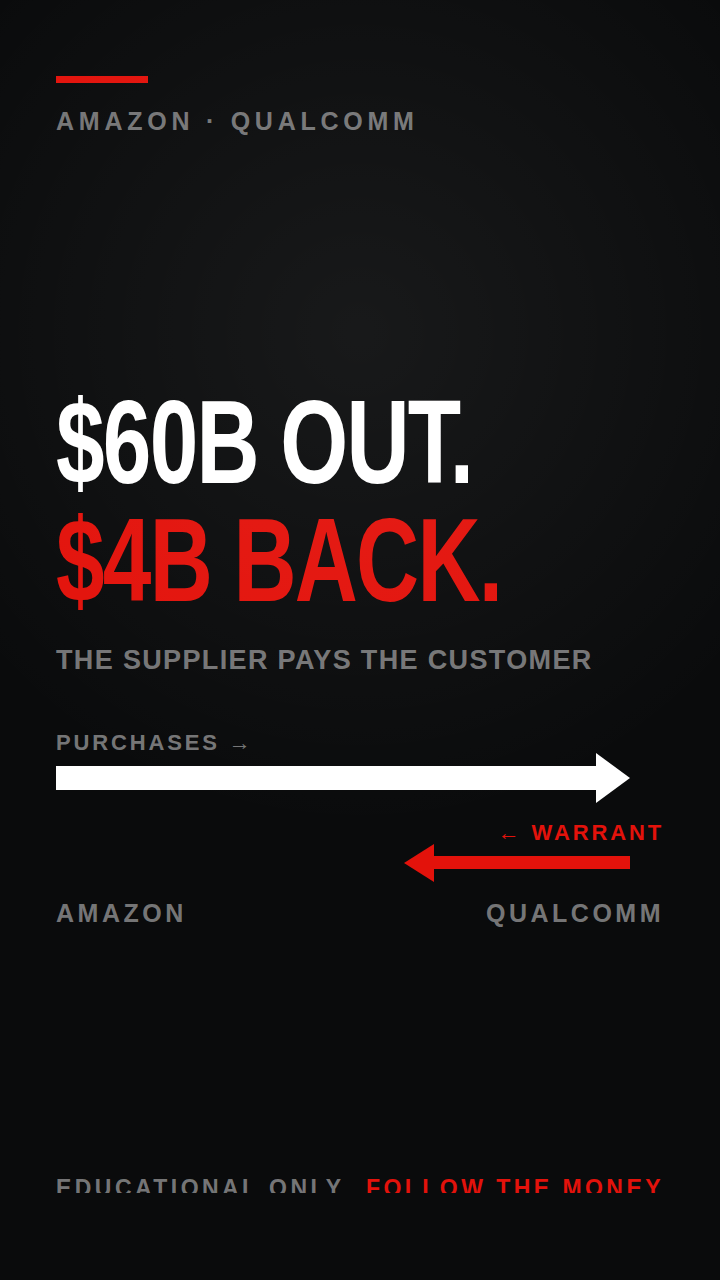
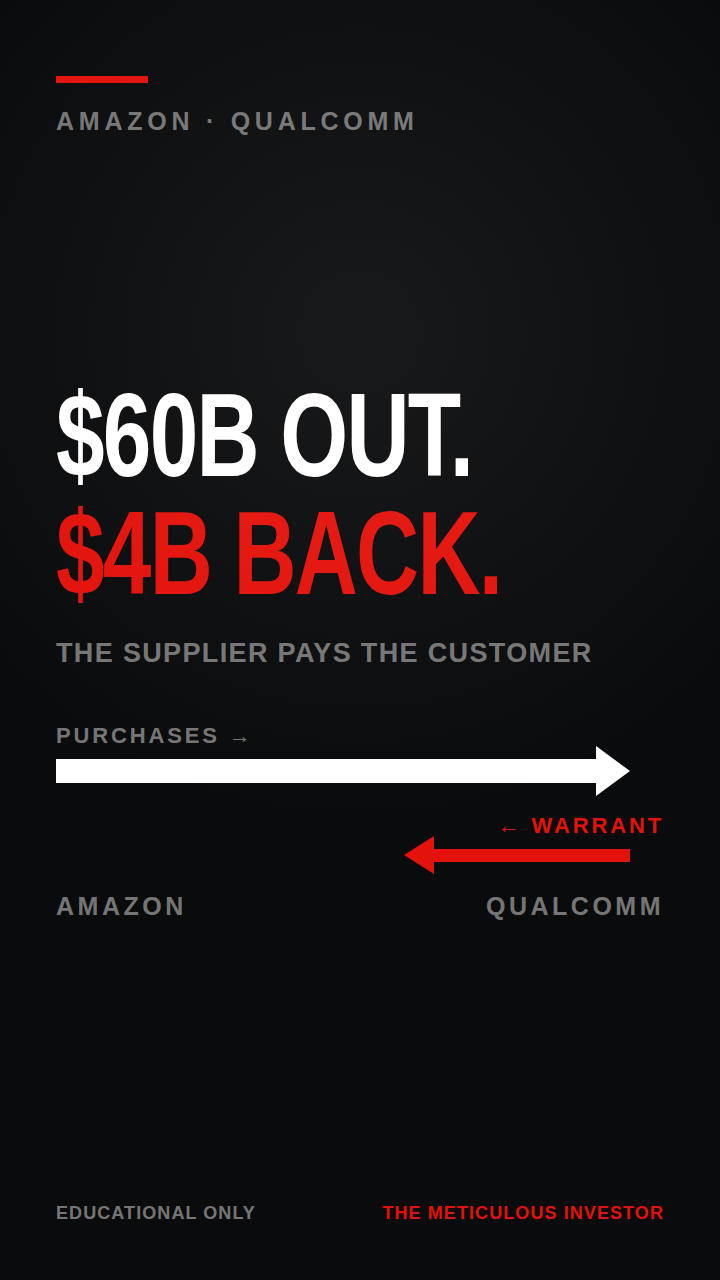
Add "Lose 50%. Need 100%." short and fix a silent thumbnail render bug
Evergreen recovery-math explainer: $100 to $50 and back, the 1/(1-L)-1
formula, the recovery table, and what it looked like in 2008 and after the
dot-com crash.

Voice and channel were both confirmed rather than assumed. The requested
"Wall Street guru" persona collides with STYLE-GUIDE.md section 4, and the
answer was to keep the newsroom register - so the persona is dropped and the
style guide stands unamended. Sign-off is The Meticulous Investor, following
the existing Paradocs 10X precedent of a series mark rather than a subscribe
CTA, which CLAUDE.md bans.

Animation density is the point of this one. A single stack of 100 steel
blocks carries the whole video: on "that fifty has to double" it visibly
doubles to meet a ghost outline of its original height, so the audience sees
why +50% is not enough before the narrator finishes the sentence.

Two numeric traps documented in the fact table: breakeven for the 2007-09
decline is +131.4% by exact closes and the script says "roughly a hundred and
thirty" so it holds either way, and the 5.5-year recovery is stated from the
peak, not the trough.

Also fixes a silent bug that had broken every thumbnail so far.
chrome --headless with --window-size=720,1280 renders a 1280px-tall PNG from
a 1193px viewport, because Chromium reserves ~87px of window chrome even
headless. Everything below y=1193 was never painted, so footers vanished
while the files still came out at the correct dimensions - it read as a CSS
[…]

diff --git a/thumbnail-kit/recovery-math.html b/thumbnail-kit/recovery-math.html
@@ -1,0 +1,40 @@
+<link rel="stylesheet" href="thumbnail.css">
+<style>
+  .pair{margin-top:54px;width:608px}
+  .row{display:flex;align-items:center;gap:18px}
+  .row + .row{margin-top:20px}
+  .tag{
+    width:108px;flex:0 0 108px;text-align:right;white-space:nowrap;
+    font-size:25px;font-weight:700;letter-spacing:.06em;color:var(--mute);
+  }
+  .b{height:46px;border-radius:0 3px 3px 0}
+  .b.loss{width:200px;background:var(--paper)}
+  .b.gain{width:400px;background:var(--red)}
+  .val{font-size:25px;font-weight:700;letter-spacing:.04em}
+  .val.w{color:var(--mute)} .val.r{color:var(--red)}
+  .foot .tag2{color:var(--red)}
+  .note{
+    margin-top:24px;font-size:22px;font-weight:700;letter-spacing:.13em;
+    text-transform:uppercase;color:var(--mute);
+  }
+</style>
+<div class="frame">
+  <div class="head">
+    <div class="rule"></div>
+    <div class="kicker">The Recovery Math</div>
+  </div>
+
+  <div class="mid">
+    <span class="line">LOSE 50%.</span>
+    <span class="line red">NEED 100%.</span>
+    <div class="sub">$100 &rarr; $50 &rarr; back to $100</div>
+
+    <div class="pair">
+      <div class="row"><span class="tag">Lost</span><span class="b loss"></span><span class="val w">50%</span></div>
+      <div class="row"><span class="tag">Recover</span><span class="b gain"></span><span class="val r">100%</span></div>
+      <div class="note">Twice the climb, to undo the fall</div>
+    </div>
+  </div>
+
+  <div class="foot"><span>Educational only</span><span class="tag2">The Meticulous Investor</span></div>
+</div>

diff --git a/thumbnail-kit/thumbnail.css b/thumbnail-kit/thumbnail.css
@@ -15,12 +15,12 @@ body::after{
   background:radial-gradient(115% 65% at 50% 26%,rgba(255,255,255,.06),transparent 60%);
 }
 .frame{
-  position:absolute;inset:0;padding:76px 56px 78px;
+  position:absolute;inset:0;padding:76px 56px 120px;
   display:flex;flex-direction:column;
 }
 .head{flex:0 0 auto}
-.mid{flex:1 1 auto;display:flex;flex-direction:column;justify-content:center}
-.foot{flex:0 0 auto}
+.mid{flex:1 1 auto;min-height:0;display:flex;flex-direction:column;justify-content:center}
+
 .rule{width:92px;height:7px;background:var(--red)}
 .kicker{
   margin-top:24px;font-size:25px;font-weight:700;letter-spacing:.19em;
@@ -38,8 +38,9 @@ body::after{
   color:var(--mute);text-transform:uppercase;white-space:nowrap;
 }
 .foot{
+  position:absolute;left:56px;right:56px;bottom:56px;
   display:flex;align-items:center;justify-content:space-between;
-  font-size:23px;font-weight:700;letter-spacing:.15em;text-transform:uppercase;
+  font-size:18px;font-weight:700;letter-spacing:.06em;text-transform:uppercase;
   color:var(--mute);white-space:nowrap;
 }
 .foot .tag{color:var(--red)}

diff --git a/thumbnail-kit/etf-distributions.html b/thumbnail-kit/etf-distributions.html
@@ -38,5 +38,5 @@
     </div>
   </div>
 
-  <div class="foot"><span>Educational only</span><span class="tag">Read total return</span></div>
+  <div class="foot"><span>Educational only</span><span class="tag">The Meticulous Investor</span></div>
 </div>

diff --git a/thumbnail-kit/amazon-qualcomm.html b/thumbnail-kit/amazon-qualcomm.html
@@ -44,5 +44,5 @@
     </div>
   </div>
 
-  <div class="foot"><span>Educational only</span><span class="tag">Follow the money</span></div>
+  <div class="foot"><span>Educational only</span><span class="tag">The Meticulous Investor</span></div>
 </div>

diff --git a/recovery-math-short/SCRIPT.md b/recovery-math-short/SCRIPT.md
@@ -1,0 +1,155 @@
+# YouTube Short — "Lose 50%. Need 100%."
+
+**Runtime target:** 68–75s · **Format:** 1080x1920 (9:16) · **Style:** faceless, imagery-first
+**Voice:** Alex Wright – Informative · dry, confident, analytical newsroom
+**Channel:** The Meticulous Investor · **Type:** evergreen (no dated claims in the hook)
+
+---
+
+## VO SCRIPT (188 words)
+
+**[HOOK]**
+> Lose fifty percent. You need a hundred percent to get back. Watch.
+
+**[THE DEMONSTRATION]**
+> A hundred dollars. It falls fifty percent — you're at fifty. Now gain fifty percent back.
+> Seventy-five. You're still down a quarter.
+
+**[THE REVEAL]**
+> To return to a hundred, that fifty has to double. A hundred percent gain, to undo a fifty
+> percent loss.
+
+**[THE RULE]**
+> The formula is one, divided by one minus your loss. It isn't symmetrical, and it gets worse
+> fast. Down ten needs eleven. Down thirty needs forty-three. Down eighty needs four hundred.
+
+**[THE REAL WORLD]**
+> October 2007. The S&P 500 fell fifty-seven percent by March 2009. Breakeven needed roughly a
+> hundred and thirty percent, and it took until 2013 — five and a half years from the peak.
+> The Nasdaq fell seventy-eight percent in the dot-com crash. It didn't see that peak again
+> until 2015.
+
+**[THE HONEST COUNTER — mandatory beat]**
+> But here's what the math does not say: sell to avoid it. Sidestepping the fall usually means
+> missing the climb — and the climb is where the hundred percent lives. This is an argument
+> about position sizing, not about panic.
+
+**[CLOSE + CTA]**
+> Run the number on your worst position before you average down. This is The Meticulous
+> Investor.
+
+---
+
+## FACT TABLE
+
+| # | Claim in script | Status | Confidence | Source |
+|---|---|---|---|---|
+| 1 | $100 → −50% → $50 | **Arithmetic** | Certain | Self-verifying |
+| 2 | $50 → +50% → $75, still 25% below $100 | **Arithmetic** | Certain | Self-verifying |
+| 3 | $50 → +100% → $100 | **Arithmetic** | Certain | Self-verifying |
+| 4 | Recovery formula = 1 ÷ (1 − L) − 1 | **Verified** — standard identity | Certain | Algebra; matches published recovery tables |
+| 5 | −10% → +11% (11.1%) | **Arithmetic** | Certain | 1/0.9 − 1 = 11.11% |
+| 6 | −30% → +43% (42.9%) | **Arithmetic** | Certain | 1/0.7 − 1 = 42.86% |
+| 7 | −80% → +400% | **Arithmetic** | Certain | 1/0.2 − 1 = 400% |
+| 8 | S&P 500 fell ~57% from Oct 2007 to Mar 2009 | **Verified** | High | Closing high 1,565.15 on 9 Oct 2007 → low 676.53 on 9 Mar 2009 = **−56.8%** |
+| 9 | Breakeven needed "roughly 130%" | **Verified — and deliberately softened** | High | Exact closes give **+131.4%**. Several secondary sources round to "+133%". The script says *roughly a hundred and thirty* so it is correct under either. **Do not tighten this to 133%.** |
+| 10 | Recovery took until 2013, ~5.5 years from the peak | **Verified** | High | S&P closed above its 2007 high on 28 Mar 2013 (1,569.19). Oct 2007 → Mar 2013 ≈ **5.4 years**. Stated *from the peak* on purpose — from the Mar 2009 trough it is ~4 years, and mixing the two is the usual error |
+| 11 | Nasdaq fell ~78% in the dot-com crash | **Verified** | High | Peak Mar 2000 → 78% decline by Oct 2002 |
+| 12 | Nasdaq did not regain that peak until 2015 | **Verified** | High | New closing high 23–24 Apr 2015, ~15 years after the peak |
+
+### The two numbers most likely to be got wrong — and how this script avoids them
+- **Percent-to-recover is not the mirror of percent-lost.** −57% needs +131%, not +57%. The
+  whole video exists to make that legible.
+- **Peak-to-recovery vs. trough-to-recovery.** Commentary mixes these constantly. The script
+  says "five and a half years **from the peak**". From the trough it is about four. Either is
+  true; stating which one is the difference between accurate and sloppy.
+
+### Egress note
+Market-data and financial-news domains are blocked by this environment's proxy, so items 8–12
+were read from search-index snippets rather than primary sources. These are long-settled
+historical figures that appear consistently across many independent outlets, which is why
+confidence is High despite the indirect route. Items 1–7 need no source — they are arithmetic
+and the video shows the working.
+
+---
+
+## SHOT LIST — imagery-first, animation-dense
+
+The brief asked for more animation than previous shorts. Every beat below carries a moving
+graphic, and the central object is physical so the maths is *visible* rather than annotated.
+
+**HERO SHOT:** a stack of 100 identical machined steel blocks. Half shear away and tumble.
+Then, to rebuild, 50 more must be set on a pile of 50 — and the stack visibly **doubles** to
+reach a ghost outline of where it started. The doubling is the whole idea, in one object.
+
+**BOOKEND:** the full stack. Opens on it complete under cold light; closes on it restored,
+with the ghost outline of its collapsed height still marked in red.
+
+| # | Beat | BASE imagery | MID graphics | Transition in |
+|---|---|---|---|---|
+| 1 | "Lose fifty percent" | Low angle up a stack of steel blocks, cold light, camera climbing | `100` counter; ghost outline locks at full height | open on it |
+| 2 | "You need a hundred percent to get back. Watch." | Same stack, held wide | `−50%` / `+100%` collide as opposing arrows | punch-in |
+| 3 | "A hundred dollars" | Macro — top block, machined surface, raking light | `$100` counts up | match-cut |
+| 4 | **"falls fifty percent"** | Half the stack **shears away**, blocks tumbling in slow-mo, dust | Counter drops `$100 → $50`; red ghost line stays at 100 | speed ramp, hard landing |
+| 5 | "you're at fifty" | The halved stack, debris settling | `$50` | punch-in |
+| 6 | "Now gain fifty percent back" | 25 blocks fly in and stack | Counter climbs `$50 → $75`; a `+50%` badge | whip pan |
+| 7 | **"Seventy-five. Still down a quarter."** | The stack short of the ghost line | The gap between 75 and the ghost line hatches red; `−25%` | 1-frame white flash |
+| 8 | **"that fifty has to double"** | **HERO** — 50 more blocks set on, the stack doubling in one continuous move | `×2` scales past the frame; counter `$50 → $100` | slow push-in, speed ramp |
+| 9 | "A hundred percent gain to undo a fifty percent loss" | Stack complete, meeting the ghost line exactly | `−50% → +100%` locks together | light sweep |
+| 10 | "The formula" | Macro — figures etched into dark steel plate | `1 ÷ (1 − L) − 1` draws itself stroke by stroke | type-as-mask |
+| 11 | "Down ten needs eleven / thirty needs forty-three / eighty needs four hundred" | Dark wall, blocks receding | **Four paired bars step in one at a time**, loss bar left in white, recovery bar right in red, each drawing itself and the red visibly outrunning the white further each row | punch-in per row |
+| 12 | "October 2007 … fell fifty-seven percent" | A line **carving down** a dark stone wall like a cut | `S&P 500` name-tag; `−57%`; dates `OCT 2007 → MAR 2009` | roll transition |
+| 13 | "needed roughly a hundred and thirty percent" | The cut climbing back up the wall, slower than it fell | `+130%` counter; `5.5 YEARS FROM THE PEAK` | speed ramp |
+| 14 | "The Nasdaq fell seventy-eight percent" | A deeper, longer cut on the same wall | `NASDAQ` name-tag; `−78%` | match-cut to the wall |
+| 15 | "didn't see that peak again until 2015" | Split-flap calendar spinning `2000 → 2015`, the cut slowly refilling | `15 YEARS` | whip pan |
+| 16 | **"what the math does not say: sell to avoid it"** | The stack rising — and a steel shutter dropping to cut it off mid-climb | `MISSING THE CLIMB` | glitch cut |
+| 17 | "the climb is where the hundred percent lives" | Shutter lifts; the climb resumes past it | `+100%` | reveal |
+| 18 | "position sizing, not panic" | Wide, cold, near-static — the one calm frame | `POSITION SIZING` | slow reveal |
+| 19 | CLOSE + sign-off | **BOOKEND** — the stack restored, the collapsed height still ghosted in red | `RUN YOUR OWN NUMBER` → end card `THE METICULOUS INVESTOR` | pull-back |
+
+**Match-cut chain:** stack → block macro → etched plate → paired bars → carved wall → stack.
+**Impact-frame words:** `−50%`, `×2`, `+100%`, `MISSING THE CLIMB`.
+**Beat rule:** cut or punch in every 1.2–1.8s. No shot past 2s.
+
+### Why this is "exceptionally easy to produce" and should still look expensive
+One object carries the entire video. The stack is built once and then only ever loses blocks,
+gains blocks, or is measured against its own ghost outline. There is no location to establish,
+no second metaphor to teach, and the arithmetic is legible without a single word of on-screen
+explanation. That is what buys the budget for shots 11–15 to be dense.
+
+### Name-tags, not logos
+`S&P 500` and `NASDAQ` are plain text name-tags on dark plates. No index logos, no exchange
+marks — same rule as every previous short.
+
+---
+
+## PACKAGING
+
+**Titles**
+1. Lose 50%. Need 100%.
+2. Why A 50% Loss Needs A 100% Gain
+3. The Math That Makes Drawdowns Brutal
+
+**Description**
+> A 50% loss does not need a 50% gain to recover — it needs 100%. We show the money doing it:
+> $100 down to $50, back to $75, and why that's still not enough. Then the formula, the
+> recovery table, and what it actually looked like in 2008 and after the dot-com crash.
+>
+> Includes the part most versions leave out: this is an argument about position sizing, not a
+> reason to sell.
+>
+> Educational only. Not financial advice.
+
+**Hashtags:** #investing #stockmarket #drawdown #compounding #investingbasics
+
+**Pinned comment**
+> The formula is 1 ÷ (1 − your loss) − 1. Down 20% needs +25%. Down 60% needs +150%. Down 90%
+> needs +900%. Worth knowing which side of that curve your worst position is on.
+
+---
+
+## COMPLIANCE
+On-screen card, 0:00–0:04: **"Educational only. Not financial advice."**
+No ticker recommended, no forecast, no price target. The historical examples are stated as
+history, not as prediction. The CTA is a series sign-off and an instruction to check your own
+numbers — no subscribe animation, no follow-bait, per `CLAUDE.md`.

diff --git a/recovery-math-short/PRODUCTION.md b/recovery-math-short/PRODUCTION.md
@@ -1,0 +1,91 @@
+# Production Record — "Lose 50%. Need 100%."
+
+## Session
+- **video_id:** `6ec2edbe28814f31958210898e4c61f9`
+- **Watch:** https://app.heygen.com/videos/6ec2edbe28814f31958210898e4c61f9
+- **session_id:** `35d0808af1ff47ffbb95cc9f6de7a946`
+- **Mode:** `generate` (chat mode has 404'd four times across two sessions; not attempted)
+- **Style:** Economist — `e7f9a12679ec426099db7646b70a4639`
+- **Voice:** Alex Wright – Informative — `0db3abd83c74452fb2460b0dd113daad`
+- **Orientation:** portrait 9:16
+
+## Two decisions taken from direct answers, not inferred
+
+### Voice: unchanged newsroom register
+The brief asked for a "Wall Street guru / trapper / Einstein of Wall Street" persona, which
+collides head-on with `STYLE-GUIDE.md` §4 ("dry, confident, analytical newsroom — never a hype
+guru"). Asked, and the answer was **same newsroom voice as before**. So the persona is dropped
+entirely and the style guide stands unamended. The prompt asks for "a teacher who is certain",
+which is as far toward the Einstein reading as the locked tone allows.
+
+### Channel: The Meticulous Investor
+Two channels exist — Paradocs10X and The Meticulous Investor. This is a finance explainer in
+the same series as the ETF and Amazon shorts, and Paradocs10X is the separate parable/futurism
+series that already has its own sign-off ("This is Paradocs 10X"). So this signs off as **The
+Meticulous Investor**. If that is backwards it is one line of VO and one end card — but it
+does require a re-render, because narration is baked in and the Creator plan has no detached
+VO stem.
+
+**Worth adding both channel names to `CLAUDE.md`.** Nothing in the repo recorded them, which is
+why this needed asking at all. Not edited here because `CLAUDE.md` is a locked channel document.
+
+## The CTA, and why it is not a subscribe animation
+The brief asked for a CTA naming the channel. `CLAUDE.md` bans subscribe animations and
+clickbait CTAs but requires closing on something actionable. The existing precedent resolves
+it — `paradocs-short-1` closes "Full breakdown on the channel. This is Paradocs 10X."
+
+So the close is an instruction plus a series mark: *"Run the number on your worst position
+before you average down. This is The Meticulous Investor."* No subscribe button, no bell, no
+follow-bait — and the prompt bans all three explicitly.
+
+## Why this one is animation-dense
+The brief asked for more animation each time out, and this topic allows it: the arithmetic is
+trivial, so none of the runtime is spent teaching a concept. One physical object carries
+everything — a stack of 100 steel blocks that only ever loses blocks, gains blocks, or is
+measured against a ghost outline of its original height.
+
+The hero moment is literal: on "that fifty has to double", 50 blocks are set onto a pile of 50
+in one continuous move and the stack **doubles** to meet the outline. The audience sees why
++50% is not enough before the narrator finishes saying it.
+
+That frugality is what buys the density in the back half — the four stepping recovery bars, the
+carved-wall drawdowns, the split-flap calendar spinning 2000 to 2015.
+
+## Fact-checking
+Full table in `SCRIPT.md`, 12 claims. Items 1–7 are arithmetic and need no source; the video
+shows its own working. Items 8–12 are long-settled market history.
+
+**Two traps this script deliberately avoids, both flagged in the fact table:**
+1. **Breakeven percentage.** Exact closes give **+131.4%** for the 2007–09 S&P decline; several
+   secondary sources round to "+133%". The script says *roughly a hundred and thirty*, correct
+   under either. **Do not "tighten" this to 133%.**
+2. **Peak-to-recovery vs trough-to-recovery.** The script says "five and a half years **from the
+   peak**" (Oct 2007 → Mar 2013). From the March 2009 trough it is about four years. Commentary
+   mixes these constantly; stating which one is the difference between accurate and sloppy.
+
+Market-data domains are egress-blocked here, so items 8–12 came from search-index snippets.
+Confidence is High anyway because these are decades-old figures consistent across many
+independent outlets — unlike the Amazon short, where the deal was one day old.
+
+## Thumbnail
+`thumbnail-recovery-math.png` — 720x1280, from `thumbnail-kit/recovery-math.html`.
+Hero reads **LOSE 50%. / NEED 100%.** over two paired bars where the red recovery bar is
+visibly exactly twice the white loss bar. The asymmetry is the image; no reading required.
+
+## NOT VERIFIED — needs your eyes
+HeyGen CDN egress is blocked; the render will be **complete, not verified**. Check:
+1. **No human face, person or hand anywhere** — hands were banned explicitly since blocks are
+   being stacked and that is a natural place for the model to add one.
+2. **Burned-in captions.** Disabled on the last three generate-mode renders. Expect to publish
+   the separate captioned cut.
+3. **The doubling actually reads.** If the stack just "gets taller" rather than visibly
+   doubling against the ghost outline, the video loses its one job. This is the re-run trigger.
+4. **The counter-evidence beat survived** ("what the math does not say: sell to avoid it").
+5. **The end card says exactly THE METICULOUS INVESTOR**, and there is no subscribe/bell/follow
+   animation anywhere near the close.
+6. **Imagery-first, palette, compliance card in first 4s, cut rhythm** — the standing checks.
+
+## Constraints hit
+- HeyGen CDN egress blocked — complete, not verified.
+- Higgsfield 0 credits, vidIQ 1 credit — no generative B-roll, no generated thumbnail.
+- No detached VO stem on the Creator plan, so any wording change means a full re-render.

diff --git a/thumbnail-kit/README.md b/thumbnail-kit/README.md
@@ -7,14 +7,40 @@ because vidIQ thumbnail generation costs 22 credits (balance: 1) and Higgsfield 
 ## Build
 
 ```sh
-CHROME=/opt/pw-browsers/chromium-1194/chrome-linux/chrome
-"$CHROME" --headless --no-sandbox --disable-gpu --hide-scrollbars \
-  --force-device-scale-factor=1 --window-size=720,1280 \
+SHELL_BIN=/opt/pw-browsers/chromium_headless_shell-1194/chrome-linux/headless_shell
+"$SHELL_BIN" --no-sandbox --disable-gpu --hide-scrollbars \
+  --force-device-scale-factor=1 --window-size=720,1280 --virtual-time-budget=2000 \
   --screenshot=out.png "file://$PWD/<name>.html"
 ```
 
 **720x1280**, matching `pdt-short/thumbnail-pdt.png`. Copy the PNG into the video's directory
 as `thumbnail-<slug>.png`.
+
+### Use `headless_shell`, NOT `chrome --headless`
+
+This cost three rounds of silently broken output, so it is worth stating plainly.
+
+`chromium-1194/chrome-linux/chrome --headless --window-size=720,1280` produces a **1280px-tall
+PNG from a 1193px-tall viewport**. Chromium reserves ~87px of window chrome even in headless
+mode, so everything below y=1193 is simply never painted — while the file still comes out at
+the right dimensions. The footer vanished off three thumbnails this way and the PNGs looked
+plausible enough that it read as a CSS bug. It was not; the CSS was correct throughout.
+
+Measured behaviour on this image:
+
+| Binary | `--window-size=720,1280` gives | Screenshot |
+|---|---|---|
+| `chrome --headless` | viewport **1193** | 1280 tall, bottom 87px blank |
+| `chrome --headless=new` | viewport **1193** | same |
+| `chromium_headless_shell` | viewport **1280** | 1280 tall, correct |
+
+`headless_shell` maps viewport 1:1 to window size. Use it. If you ever must use `chrome`,
+pass `--window-size=720,1367` (1280 + 87) and crop, but there is no reason to.
+
+**How to catch this class of bug:** put something deliberately at the very bottom of the frame
+and confirm it survives. Or measure in-page —
+`document.querySelector('.foot').getBoundingClientRect()` against `window.innerHeight` — which
+is what finally identified it.
 
 ## The template
 
@@ -30,7 +56,13 @@ Fixed anatomy, top to bottom:
 | Hero, two lines | Line one white, line two red. Short — under ~10 characters each. |
 | Sub | One line, must not wrap. The arithmetic or the thesis. |
 | Graphic | The video's own data visual, not decoration. |
-| Footer | "Educational only" left, the actionable close right, in red. |
+| Footer | "Educational only" left, the channel name right, in red. Absolutely positioned at `bottom:56px` so it cannot be pushed out of frame by a tall middle band. |
+
+## Series mark
+
+All thumbnails carry **THE METICULOUS INVESTOR** in the footer right. That is what makes a
+grid of them read as one channel. Paradocs 10X is a separate series with its own sign-off —
+do not mix the two marks.
 
 ## House style notes
 
